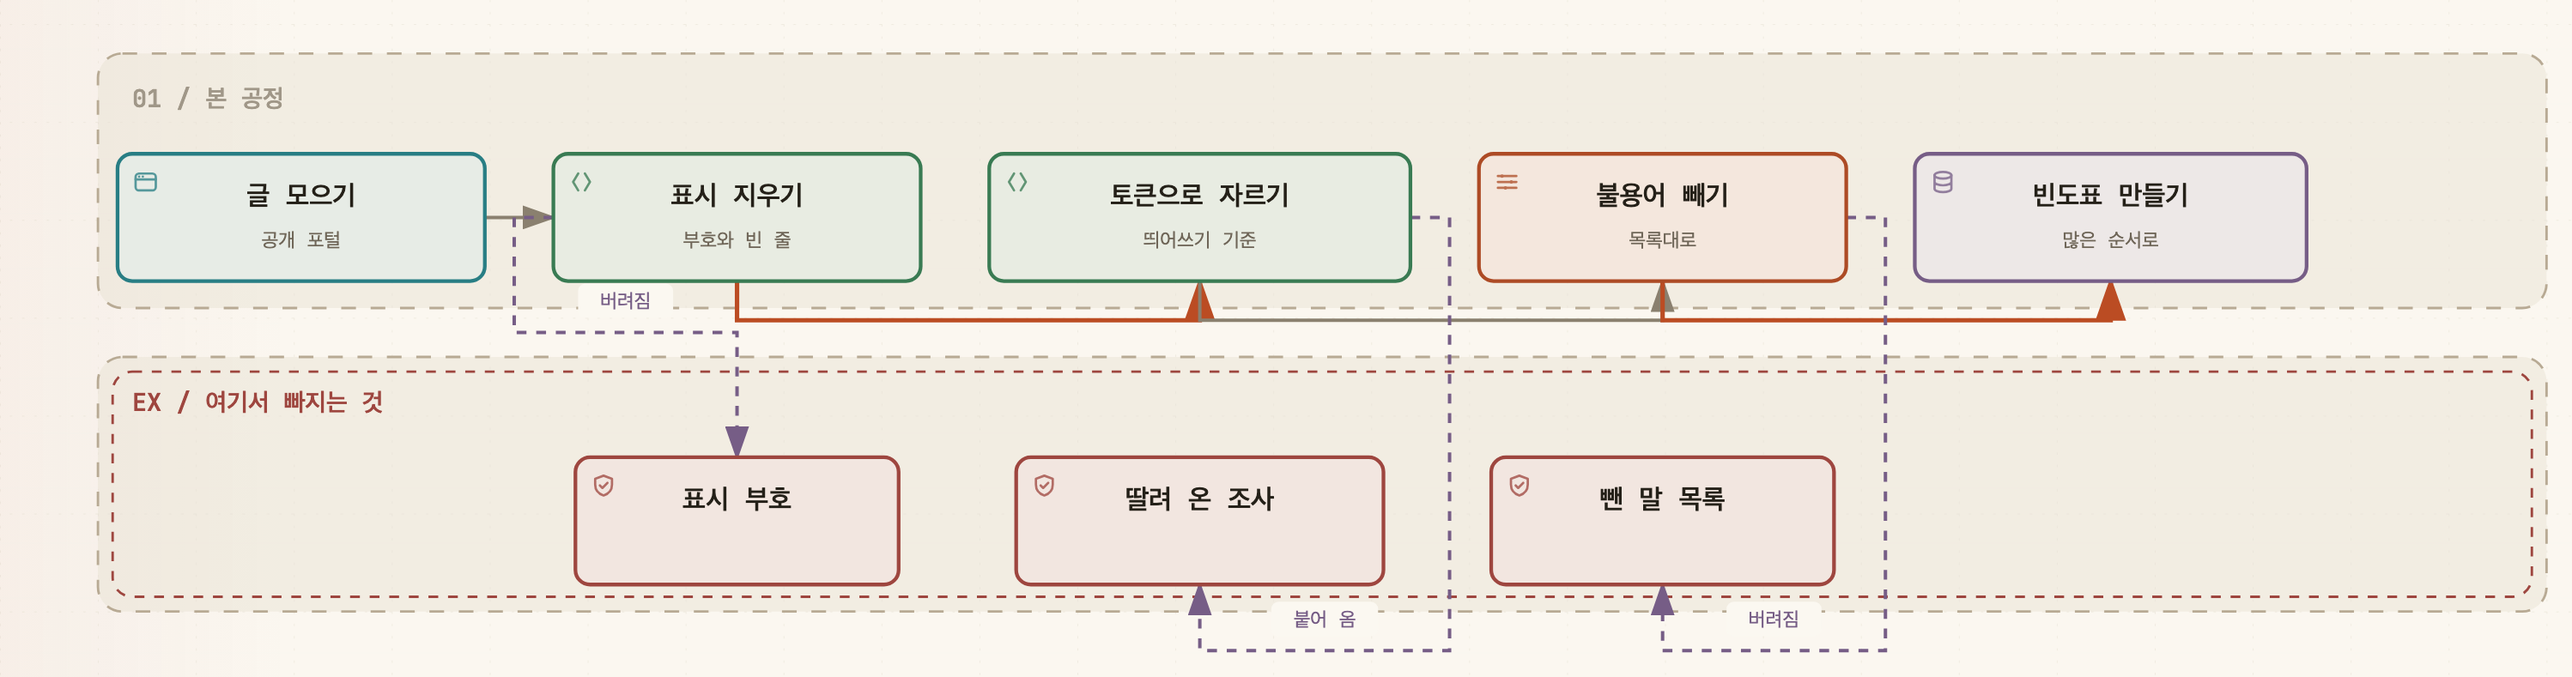
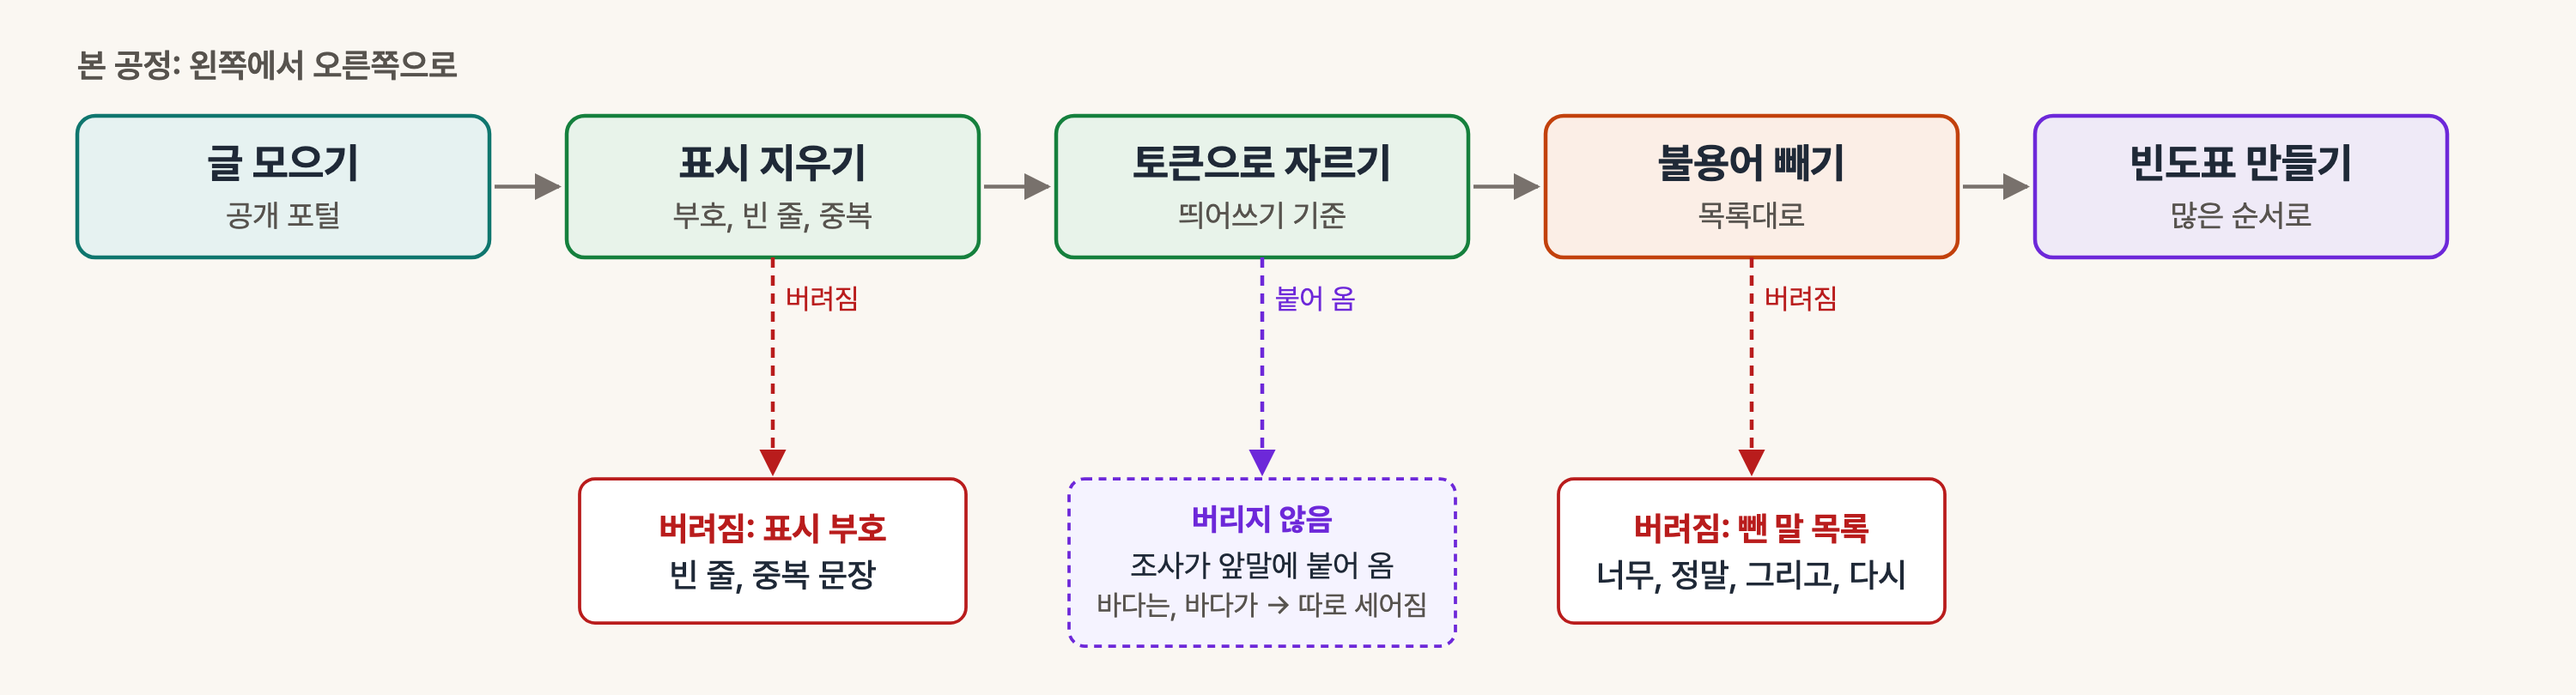
fix(week-01,week-02): redraw roulette to scale and pipeline without discarding particles
Add figures-src/ with the HTML/SVG sources and a Playwright render script.

diff --git a/figures-src/sampling-roulette.html b/figures-src/sampling-roulette.html
@@ -1,0 +1,56 @@
+<!doctype html><meta charset="utf-8"><link rel="stylesheet" href="common.css"><body><svg xmlns="http://www.w3.org/2000/svg" width="1600" height="900" viewBox="0 0 1600 900">
+<rect width="1600" height="900" fill="#ffffff"/>
+<text x="800" y="62" text-anchor="middle" font-size="34" font-weight="600">확률표를 100칸짜리 원판으로 (설명용 예시 숫자, 칸 수 = 확률 x 100)</text>
+<path d="M470,480 L470.0,150.0 A330,330 0 0 1 800.0,480.0 Z" fill="#3b82f6" stroke="#ffffff" stroke-width="3"/>
+<text x="619.3" y="324.7" text-anchor="middle" font-size="30" font-weight="700" fill="#ffffff">고기국수</text>
+<text x="619.3" y="358.7" text-anchor="middle" font-size="24" font-weight="500" fill="#ffffff">25칸</text>
+<path d="M470,480 L800.0,480.0 A330,330 0 0 1 490.7,809.3 Z" fill="#60a5fa" stroke="#ffffff" stroke-width="3"/>
+<text x="624.0" y="618.6" text-anchor="middle" font-size="30" font-weight="700" fill="#ffffff">흑돼지</text>
+<text x="624.0" y="652.6" text-anchor="middle" font-size="24" font-weight="500" fill="#ffffff">24칸</text>
+<path d="M470,480 L490.7,809.3 A330,330 0 0 1 180.8,639.0 Z" fill="#93c5fd" stroke="#ffffff" stroke-width="3"/>
+<text x="368.3" y="659.1" text-anchor="middle" font-size="30" font-weight="700" fill="#1f2937">갈치조림</text>
+<text x="368.3" y="693.1" text-anchor="middle" font-size="24" font-weight="500" fill="#1f2937">18칸</text>
+<path d="M470,480 L180.8,639.0 A330,330 0 0 1 150.4,397.9 Z" fill="#bfdbfe" stroke="#ffffff" stroke-width="3"/>
+<text x="260.5" y="500.5" text-anchor="middle" font-size="30" font-weight="700" fill="#1f2937">전복죽</text>
+<text x="260.5" y="534.5" text-anchor="middle" font-size="24" font-weight="500" fill="#1f2937">12칸</text>
+<path d="M470,480 L150.4,397.9 A330,330 0 0 1 470.0,150.0 Z" fill="#cbd5e1" stroke="#ffffff" stroke-width="3"/>
+<text x="340.6" y="307.1" text-anchor="middle" font-size="30" font-weight="700" fill="#1f2937">나머지</text>
+<text x="340.6" y="341.1" text-anchor="middle" font-size="24" font-weight="500" fill="#1f2937">21칸</text>
+<circle cx="470" cy="480" r="330" fill="none" stroke="#475569" stroke-width="3"/>
+<circle cx="470" cy="480" r="8" fill="#475569"/>
+<path d="M450,118 L490,118 L470,166 Z" fill="#ea580c"/>
+<text x="470" y="864" text-anchor="middle" font-size="26" fill="#475569">칸 넓이가 확률에 비례: 고기국수 25칸 = 0.25</text>
+<text x="1225" y="190" text-anchor="middle" font-size="30" font-weight="600">세 번 돌린 결과 (예시)</text>
+<path d="M1005,420 L1005.0,325.0 A95,95 0 0 1 1100.0,420.0 Z" fill="#3b82f6" stroke="#ffffff" stroke-width="2"/>
+<path d="M1005,420 L1100.0,420.0 A95,95 0 0 1 1011.0,514.8 Z" fill="#60a5fa" stroke="#ffffff" stroke-width="2"/>
+<path d="M1005,420 L1011.0,514.8 A95,95 0 0 1 921.8,465.8 Z" fill="#93c5fd" stroke="#ffffff" stroke-width="2"/>
+<path d="M1005,420 L921.8,465.8 A95,95 0 0 1 913.0,396.4 Z" fill="#bfdbfe" stroke="#ffffff" stroke-width="2"/>
+<path d="M1005,420 L913.0,396.4 A95,95 0 0 1 1005.0,325.0 Z" fill="#cbd5e1" stroke="#ffffff" stroke-width="2"/>
+<circle cx="1005" cy="420" r="95" fill="none" stroke="#475569" stroke-width="2"/>
+<line x1="1005" y1="420" x2="1064.6" y2="475.9" stroke="#ea580c" stroke-width="5" stroke-linecap="round"/>
+<circle cx="1005" cy="420" r="6" fill="#475569"/>
+<text x="1005" y="560" text-anchor="middle" font-size="26" fill="#475569">1번째</text>
+<text x="1005" y="600" text-anchor="middle" font-size="30" font-weight="700" fill="#ea580c">흑돼지</text>
+<path d="M1225,420 L1225.0,325.0 A95,95 0 0 1 1320.0,420.0 Z" fill="#3b82f6" stroke="#ffffff" stroke-width="2"/>
+<path d="M1225,420 L1320.0,420.0 A95,95 0 0 1 1231.0,514.8 Z" fill="#60a5fa" stroke="#ffffff" stroke-width="2"/>
+<path d="M1225,420 L1231.0,514.8 A95,95 0 0 1 1141.8,465.8 Z" fill="#93c5fd" stroke="#ffffff" stroke-width="2"/>
+<path d="M1225,420 L1141.8,465.8 A95,95 0 0 1 1133.0,396.4 Z" fill="#bfdbfe" stroke="#ffffff" stroke-width="2"/>
+<path d="M1225,420 L1133.0,396.4 A95,95 0 0 1 1225.0,325.0 Z" fill="#cbd5e1" stroke="#ffffff" stroke-width="2"/>
+<circle cx="1225" cy="420" r="95" fill="none" stroke="#475569" stroke-width="2"/>
+<line x1="1225" y1="420" x2="1282.8" y2="362.2" stroke="#ea580c" stroke-width="5" stroke-linecap="round"/>
+<circle cx="1225" cy="420" r="6" fill="#475569"/>
+<text x="1225" y="560" text-anchor="middle" font-size="26" fill="#475569">2번째</text>
+<text x="1225" y="600" text-anchor="middle" font-size="30" font-weight="700" fill="#ea580c">고기국수</text>
+<path d="M1445,420 L1445.0,325.0 A95,95 0 0 1 1540.0,420.0 Z" fill="#3b82f6" stroke="#ffffff" stroke-width="2"/>
+<path d="M1445,420 L1540.0,420.0 A95,95 0 0 1 1451.0,514.8 Z" fill="#60a5fa" stroke="#ffffff" stroke-width="2"/>
+<path d="M1445,420 L1451.0,514.8 A95,95 0 0 1 1361.8,465.8 Z" fill="#93c5fd" stroke="#ffffff" stroke-width="2"/>
+<path d="M1445,420 L1361.8,465.8 A95,95 0 0 1 1353.0,396.4 Z" fill="#bfdbfe" stroke="#ffffff" stroke-width="2"/>
+<path d="M1445,420 L1353.0,396.4 A95,95 0 0 1 1445.0,325.0 Z" fill="#cbd5e1" stroke="#ffffff" stroke-width="2"/>
+<circle cx="1445" cy="420" r="95" fill="none" stroke="#475569" stroke-width="2"/>
+<line x1="1445" y1="420" x2="1405.6" y2="491.6" stroke="#ea580c" stroke-width="5" stroke-linecap="round"/>
+<circle cx="1445" cy="420" r="6" fill="#475569"/>
+<text x="1445" y="560" text-anchor="middle" font-size="26" fill="#475569">3번째</text>
+<text x="1445" y="600" text-anchor="middle" font-size="30" font-weight="700" fill="#ea580c">갈치조림</text>
+<text x="1225" y="690" text-anchor="middle" font-size="26" fill="#1f2937">같은 원판인데 돌릴 때마다 다른 칸이 나올 수 있다</text>
+<text x="1225" y="730" text-anchor="middle" font-size="26" fill="#1f2937">넓은 칸(고기국수)이 자주 나오지만 매번 나오지는 않는다</text>
+</svg></body>

diff --git a/figures-src/corpus-pipeline.html b/figures-src/corpus-pipeline.html
@@ -1,0 +1,43 @@
+<!doctype html><meta charset="utf-8"><link rel="stylesheet" href="common.css"><body><svg xmlns="http://www.w3.org/2000/svg" width="2000" height="540" viewBox="0 0 2000 540">
+<rect width="2000" height="540" fill="#faf7f2"/>
+<defs><marker id="ah" viewBox="0 0 10 10" refX="9" refY="5" markerWidth="7" markerHeight="7" orient="auto"><path d="M0,0 L10,5 L0,10 Z" fill="#78716c"/></marker>
+<marker id="ad" viewBox="0 0 10 10" refX="9" refY="5" markerWidth="7" markerHeight="7" orient="auto"><path d="M0,0 L10,5 L0,10 Z" fill="#b91c1c"/></marker>
+<marker id="ak" viewBox="0 0 10 10" refX="9" refY="5" markerWidth="7" markerHeight="7" orient="auto"><path d="M0,0 L10,5 L0,10 Z" fill="#6d28d9"/></marker></defs>
+<text x="60" y="60" font-size="26" font-weight="600" fill="#57534e">본 공정: 왼쪽에서 오른쪽으로</text>
+<rect x="60" y="90" width="320" height="110" rx="14" fill="#e6f2f1" stroke="#0f766e" stroke-width="3"/>
+<text x="220.0" y="138" text-anchor="middle" font-size="32" font-weight="700" fill="#1f2937">글 모으기</text>
+<text x="220.0" y="176" text-anchor="middle" font-size="24" fill="#57534e">공개 포털</text>
+<rect x="440" y="90" width="320" height="110" rx="14" fill="#e8f3ea" stroke="#15803d" stroke-width="3"/>
+<text x="600.0" y="138" text-anchor="middle" font-size="32" font-weight="700" fill="#1f2937">표시 지우기</text>
+<text x="600.0" y="176" text-anchor="middle" font-size="24" fill="#57534e">부호, 빈 줄, 중복</text>
+<line x1="384" y1="145.0" x2="434" y2="145.0" stroke="#78716c" stroke-width="3" marker-end="url(#ah)"/>
+<rect x="820" y="90" width="320" height="110" rx="14" fill="#e8f3ea" stroke="#15803d" stroke-width="3"/>
+<text x="980.0" y="138" text-anchor="middle" font-size="32" font-weight="700" fill="#1f2937">토큰으로 자르기</text>
+<text x="980.0" y="176" text-anchor="middle" font-size="24" fill="#57534e">띄어쓰기 기준</text>
+<line x1="764" y1="145.0" x2="814" y2="145.0" stroke="#78716c" stroke-width="3" marker-end="url(#ah)"/>
+<rect x="1200" y="90" width="320" height="110" rx="14" fill="#fbeee6" stroke="#c2410c" stroke-width="3"/>
+<text x="1360.0" y="138" text-anchor="middle" font-size="32" font-weight="700" fill="#1f2937">불용어 빼기</text>
+<text x="1360.0" y="176" text-anchor="middle" font-size="24" fill="#57534e">목록대로</text>
+<line x1="1144" y1="145.0" x2="1194" y2="145.0" stroke="#78716c" stroke-width="3" marker-end="url(#ah)"/>
+<rect x="1580" y="90" width="320" height="110" rx="14" fill="#efeaf7" stroke="#6d28d9" stroke-width="3"/>
+<text x="1740.0" y="138" text-anchor="middle" font-size="32" font-weight="700" fill="#1f2937">빈도표 만들기</text>
+<text x="1740.0" y="176" text-anchor="middle" font-size="24" fill="#57534e">많은 순서로</text>
+<line x1="1524" y1="145.0" x2="1574" y2="145.0" stroke="#78716c" stroke-width="3" marker-end="url(#ah)"/>
+<rect x="40" y="250" width="1500" height="0" fill="none"/>
+<line x1="600.0" y1="200" x2="600.0" y2="368" stroke="#b91c1c" stroke-width="3" stroke-dasharray="8 6" marker-end="url(#ad)"/>
+<text x="610.0" y="240" font-size="22" fill="#b91c1c">버려짐</text>
+<rect x="450.0" y="372" width="300" height="112" rx="12" fill="#ffffff" stroke="#b91c1c" stroke-width="2.5"/>
+<text x="600.0" y="420" text-anchor="middle" font-size="26" font-weight="700" fill="#b91c1c">버려짐: 표시 부호</text>
+<text x="600.0" y="456" text-anchor="middle" font-size="26" font-weight="500" fill="#1f2937">빈 줄, 중복 문장</text>
+<line x1="1360.0" y1="200" x2="1360.0" y2="368" stroke="#b91c1c" stroke-width="3" stroke-dasharray="8 6" marker-end="url(#ad)"/>
+<text x="1370.0" y="240" font-size="22" fill="#b91c1c">버려짐</text>
+<rect x="1210.0" y="372" width="300" height="112" rx="12" fill="#ffffff" stroke="#b91c1c" stroke-width="2.5"/>
+<text x="1360.0" y="420" text-anchor="middle" font-size="26" font-weight="700" fill="#b91c1c">버려짐: 뺀 말 목록</text>
+<text x="1360.0" y="456" text-anchor="middle" font-size="26" font-weight="500" fill="#1f2937">너무, 정말, 그리고, 다시</text>
+<rect x="830.0" y="372" width="300" height="130" rx="12" fill="#f5f3ff" stroke="#6d28d9" stroke-width="2.5" stroke-dasharray="6 5"/>
+<text x="980.0" y="412" text-anchor="middle" font-size="24" font-weight="700" fill="#6d28d9">버리지 않음</text>
+<text x="980.0" y="448" text-anchor="middle" font-size="24" fill="#1f2937">조사가 앞말에 붙어 옴</text>
+<text x="980.0" y="478" text-anchor="middle" font-size="22" fill="#57534e">바다는, 바다가 → 따로 세어짐</text>
+<line x1="980.0" y1="200" x2="980.0" y2="368" stroke="#6d28d9" stroke-width="3" stroke-dasharray="8 6" marker-end="url(#ak)"/>
+<text x="990.0" y="240" font-size="22" fill="#6d28d9">붙어 옴</text>
+</svg></body>

diff --git a/figures-src/common.css b/figures-src/common.css
@@ -1,0 +1,4 @@
+@font-face { font-family: "Pretendard Variable"; src: url("../public/fonts/PretendardVariable.woff2") format("woff2-variations"); font-weight: 100 900; }
+html, body { margin: 0; background: #ffffff; }
+body { font-family: "Pretendard Variable", sans-serif; color: #1f2937; }
+svg text { font-family: "Pretendard Variable", sans-serif; }

diff --git a/figures-src/render.py b/figures-src/render.py
@@ -1,0 +1,9 @@
+"""Render figure sources to PNG: uv run --with playwright python figures-src/render.py <name.html> <out.png>"""
+import asyncio, sys, pathlib
+from playwright.async_api import async_playwright
+async def main(src, out):
+    async with async_playwright() as p:
+        b = await p.chromium.launch(); pg = await b.new_page(device_scale_factor=1.5)
+        await pg.goto(pathlib.Path(src).resolve().as_uri()); await pg.wait_for_timeout(500)
+        await pg.locator("svg").first.screenshot(path=out); await b.close()
+asyncio.run(main(*sys.argv[1:3]))
